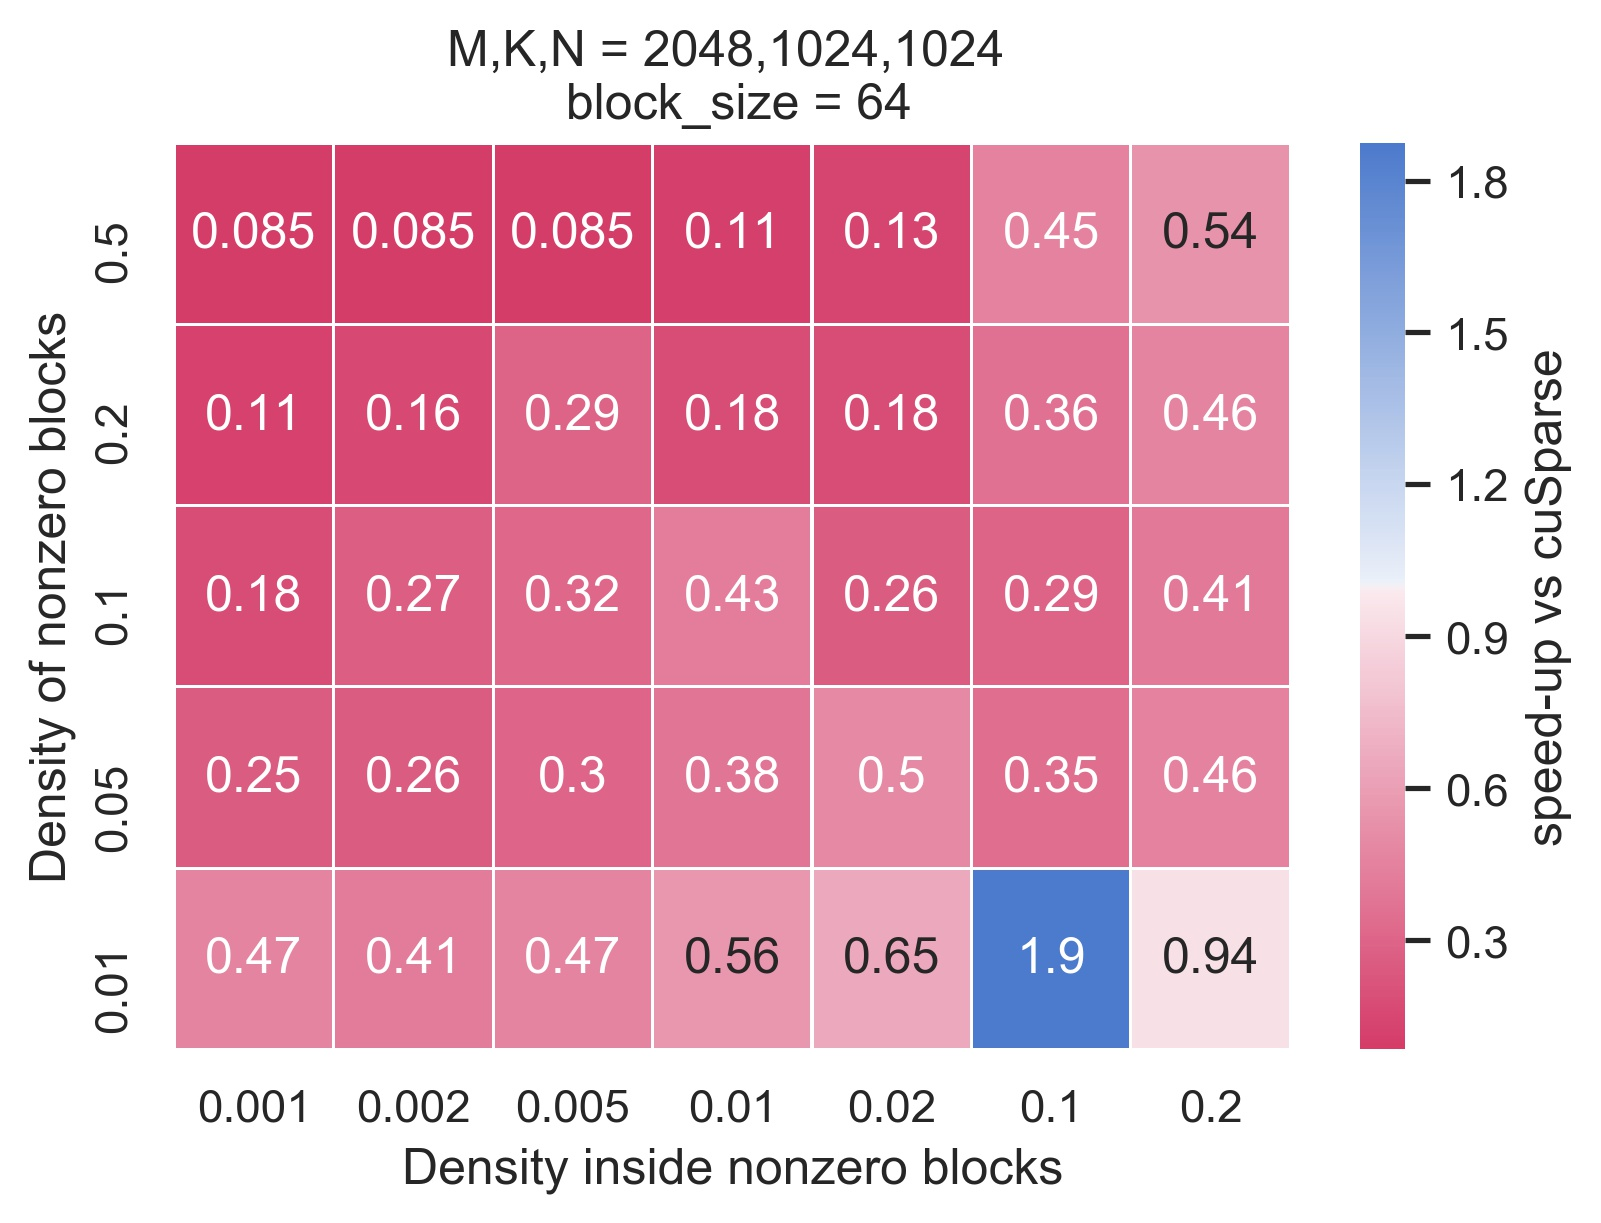
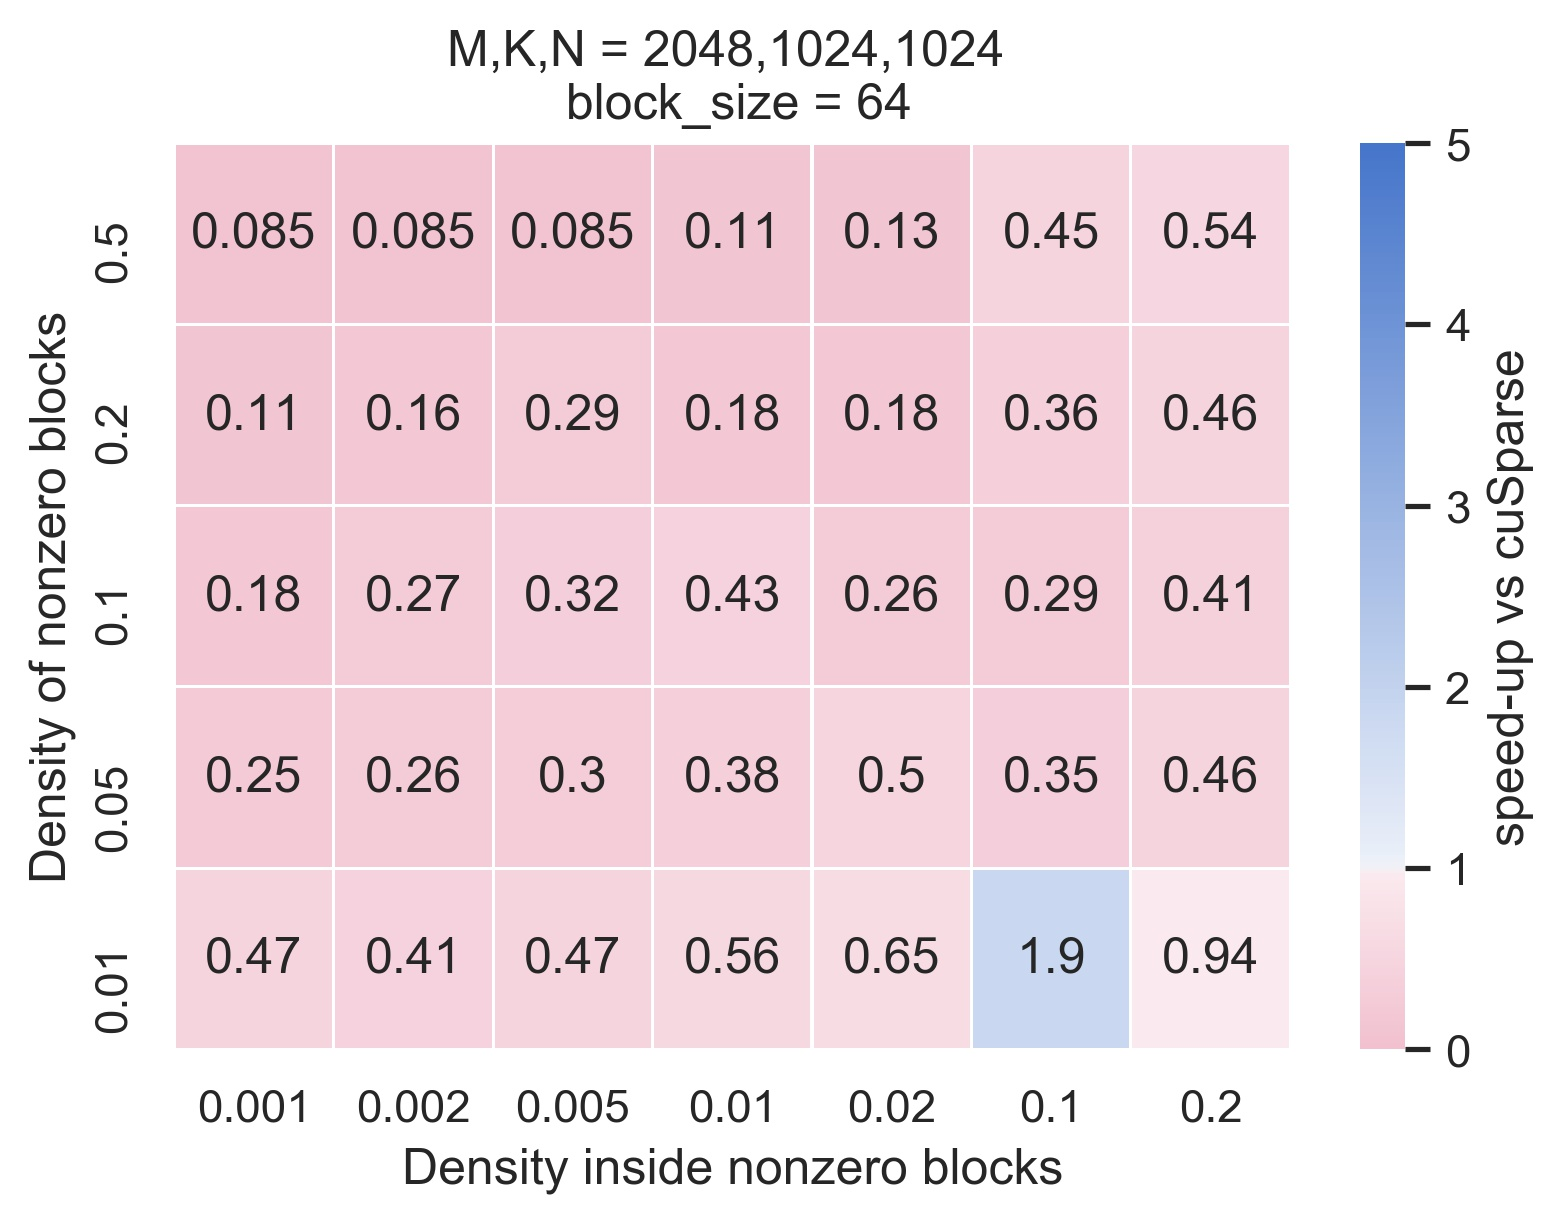
new heatmap for reorderings

diff --git a/Pyhton_scripts/SPARTA_reorder_analysis_pandas.py b/Pyhton_scripts/SPARTA_reorder_analysis_pandas.py
@@ -11,6 +11,9 @@ import os
 import matplotlib.pyplot as plt
 import argparse
 import numpy as np
+import seaborn as sns
+from scipy import interpolate
+
                     
 if __name__ == "__main__":
 
@@ -115,14 +118,14 @@ for var in to_display:
 
 
 fixed = {
-        "input_entries_density": "0.1",
-              "input_blocks_density": "0.1",
+        "input_entries_density": "0.5",
+              "input_blocks_density": "0.5",
               "rows": "2048",
               "cols": "2048",
               "input_block_size":"64",
               "algo_block_size":"64",
               "epsilon": "any",
-              "similarity_func":"'jaccard'",
+              "similarity_func":"'scalar'",
               "scramble": "1"
 }
 
@@ -143,16 +146,86 @@ results_df.query(q).plot(x = "VBS_avg_nzblock_height", y = "relative_density", k
 plt.grid(b=True, which='major', color='#666666', linestyle='-', alpha=0.4)
 plt.minorticks_on()
 plt.grid(b=True, which='minor', color='#999999', linestyle='-', alpha=0.2, linewidth=0.5)
-plt.xlim(45,85)
+plt.xlim(10,85)
 plt.ylim(0.8,1.05)
 plt.title("Reordering a scrambled blocked matrix (zoom in)")
-plt.axvline(64, alpha = 0.2, color = "red")
+#plt.axvline(64, alpha = 0.2, color = "red")
 plt.xlabel("Average height of nonzero blocks");
 plt.ylabel("Average density of nonzero blocks \n (relative to original blocking)");
 plt.savefig(output_dir + "example_block_curve_detail.jpg", format = 'jpg', dpi=300, bbox_inches = "tight")
 
 
-         
+
+#TODO interpolate to find best density for given size. Produce heatmap
+
+
+def reorder_heatmap(rows = 2048, cols = 2048, block_size = 64, similarity = "'scalar'", save_folder = "../images/reorders"):
+    
+    
+    fixed = {
+        "input_entries_density": None,
+              "input_blocks_density": None,
+              "rows": str(rows),
+              "cols": str(cols),
+              "input_block_size": str(block_size),
+              "algo_block_size": str(block_size),
+              "epsilon": "any",
+              "similarity_func": similarity,
+              "scramble": "1"
+    }
+
+    
+    heatmap_array = []
+    for input_blocks_density in results_df["input_blocks_density"].unique():
+        
+        row = []
+        for input_entries_density in results_df["input_entries_density"].unique():
+    
+            fixed["input_entries_density"] = input_entries_density;
+            fixed["input_blocks_density"] = input_blocks_density;
+            q = build_query(fixed)
+            interp_df = results_df.query(q).sort_values("VBS_avg_nzblock_height");
+            interp_df.drop_duplicates("VBS_avg_nzblock_height", inplace = True)
+            interp_df.sort_values("VBS_avg_nzblock_height", ascending = True, inplace = True)
+            xp = interp_df.query(q)["VBS_avg_nzblock_height"];
+            yp = interp_df.query(q)["relative_density"]
+            interp = np.interp(64,xp,yp)
+            row.append(interp)
+        heatmap_array.append(row)
+    
+    
+    heat_df = pd.DataFrame(heatmap_array, columns=results_df["input_entries_density"].unique())
+    heat_df.set_index(results_df["input_blocks_density"].unique(), inplace = True)
+    heat_df.sort_index(level=0, ascending=False, inplace=True)
+    
+    cmap = sns.diverging_palette(0,255,sep=1, as_cmap=True)
+    
+    plt.gca()
+    ax = sns.heatmap(heat_df, linewidths=.5, annot=True, cbar_kws={'label': 'relative density'}, cmap = cmap, center = 1, vmin = 0, vmax = 1)
+    bottom, top = ax.get_ylim()
+    ax.set_ylim(bottom + 0.5, top - 0.5)
+    plt.xlabel("Density inside nonzero blocks") 
+    plt.ylabel("Density of nonzero blocks");
+    
+    plt.title("M,N = {},{}\n block_size = {} \n similarity function = {}".format(cols,rows,block_size, similarity))
+    savename = save_folder + "reorder_heatmap_r{}_c{}_b{}_{}.jpg".format(rows, cols, block_size, similarity);
+    plt.savefig(savename, format = 'jpg', dpi=300, bbox_inches = "tight")
+    plt.show()
+    
+    
+
+for cols in [2048,]:
+    for rows in [2048,]:
+        for block_size in [16,32,64]:
+            for similarity in ["'scalar'", "'jaccard'"]:
+                try:
+                    reorder_heatmap(cols,rows,block_size, similarity);
+                except:
+                    print("could not make image for cols = {}, rows = {}, block_size = {}".format(cols,rows,block_size))
+
+
+
+
 ax = plt.gca();
 ax.set(ylabel="density of nonzero blocks", xlabel = "density inside blocks")
 #q = "cols == 1024 and B_cols == 16384 and input_blocks_density == 64  and density < 0.1"

diff --git a/Pyhton_scripts/SPARTA_performance_analysis_pandas.py b/Pyhton_scripts/SPARTA_performance_analysis_pandas.py
@@ -135,14 +135,14 @@ def make_heatmap(cols, rows, b_cols, block_size, save_folder):
     sns.set(font_scale=1)
     cmap = sns.diverging_palette(0,255,sep=1, as_cmap=True)
     
-    ax = sns.heatmap(heatmap_df, annot=True, linewidths=.5, cbar_kws={'label': 'speed-up vs cuSparse'}, cmap = cmap, center = 1)
+    ax = sns.heatmap(heatmap_df, annot=True, linewidths=.5, cbar_kws={'label': 'speed-up vs cuSparse'}, cmap = cmap, center = 1, vmin = 0, vmax = 5)
     bottom, top = ax.get_ylim()
     ax.set_ylim(bottom + 0.5, top - 0.5)
     
     plt.xlabel("Density inside nonzero blocks") 
     plt.ylabel("Density of nonzero blocks") 
     
-    plt.title("M,K,N = {},{},{} \n block_size = {} \n)
+    plt.title("M,K,N = {},{},{} \n block_size = {}".format(cols,rows,b_cols,block_size))
     
     savename = save_folder + "landscape_heatmap_r{}_c{}_k{}_b{}.jpg".format(rows, cols, b_cols, block_size);
     plt.savefig(savename, format = 'jpg', dpi=300, bbox_inches = "tight")
